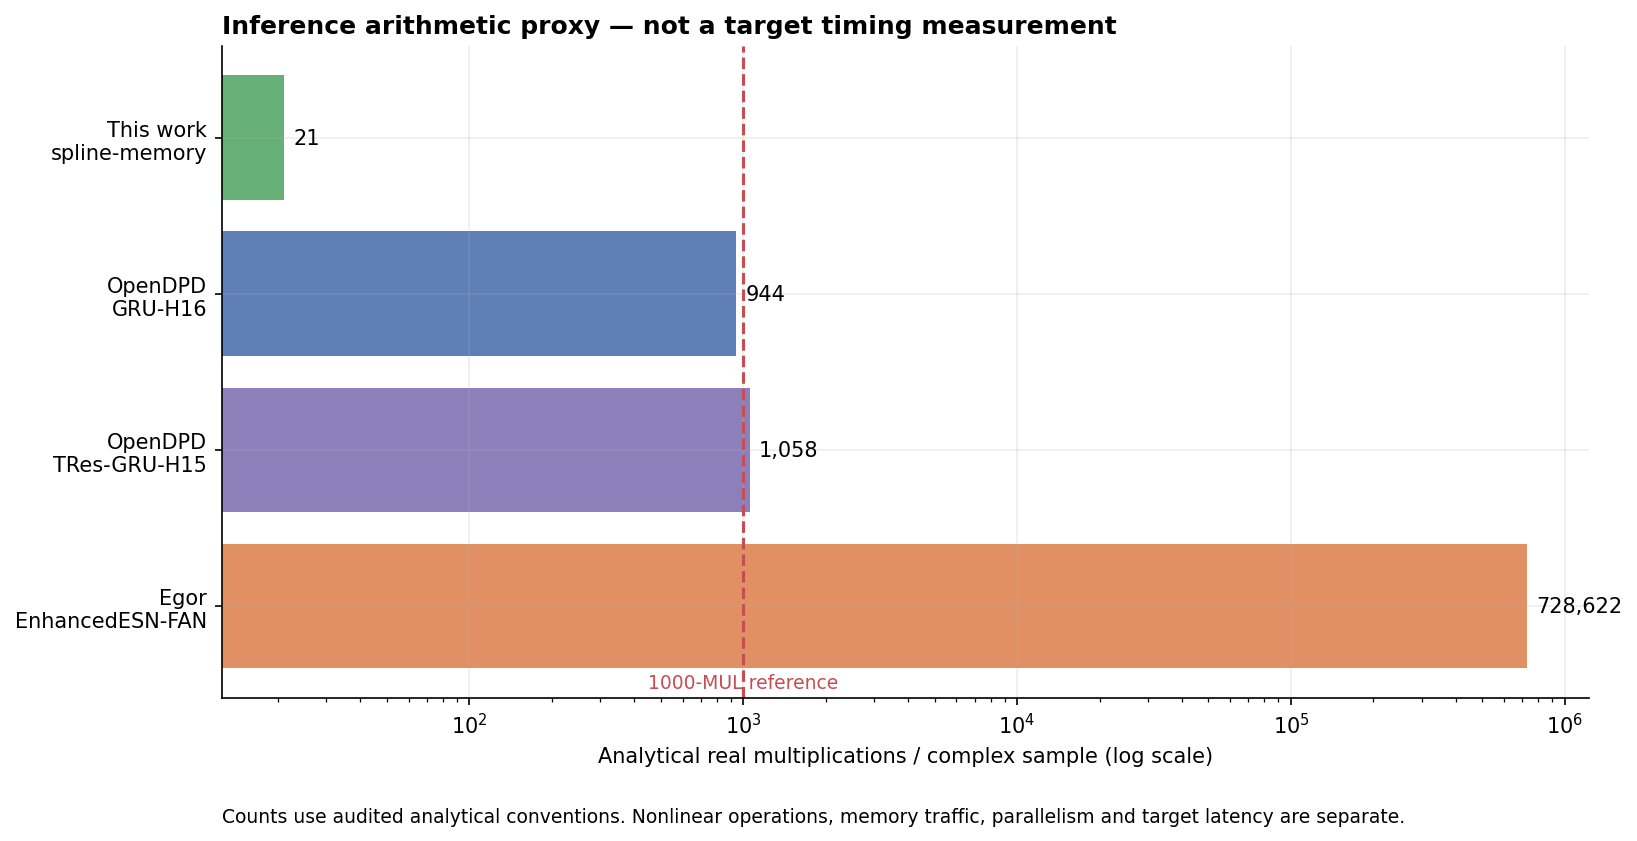
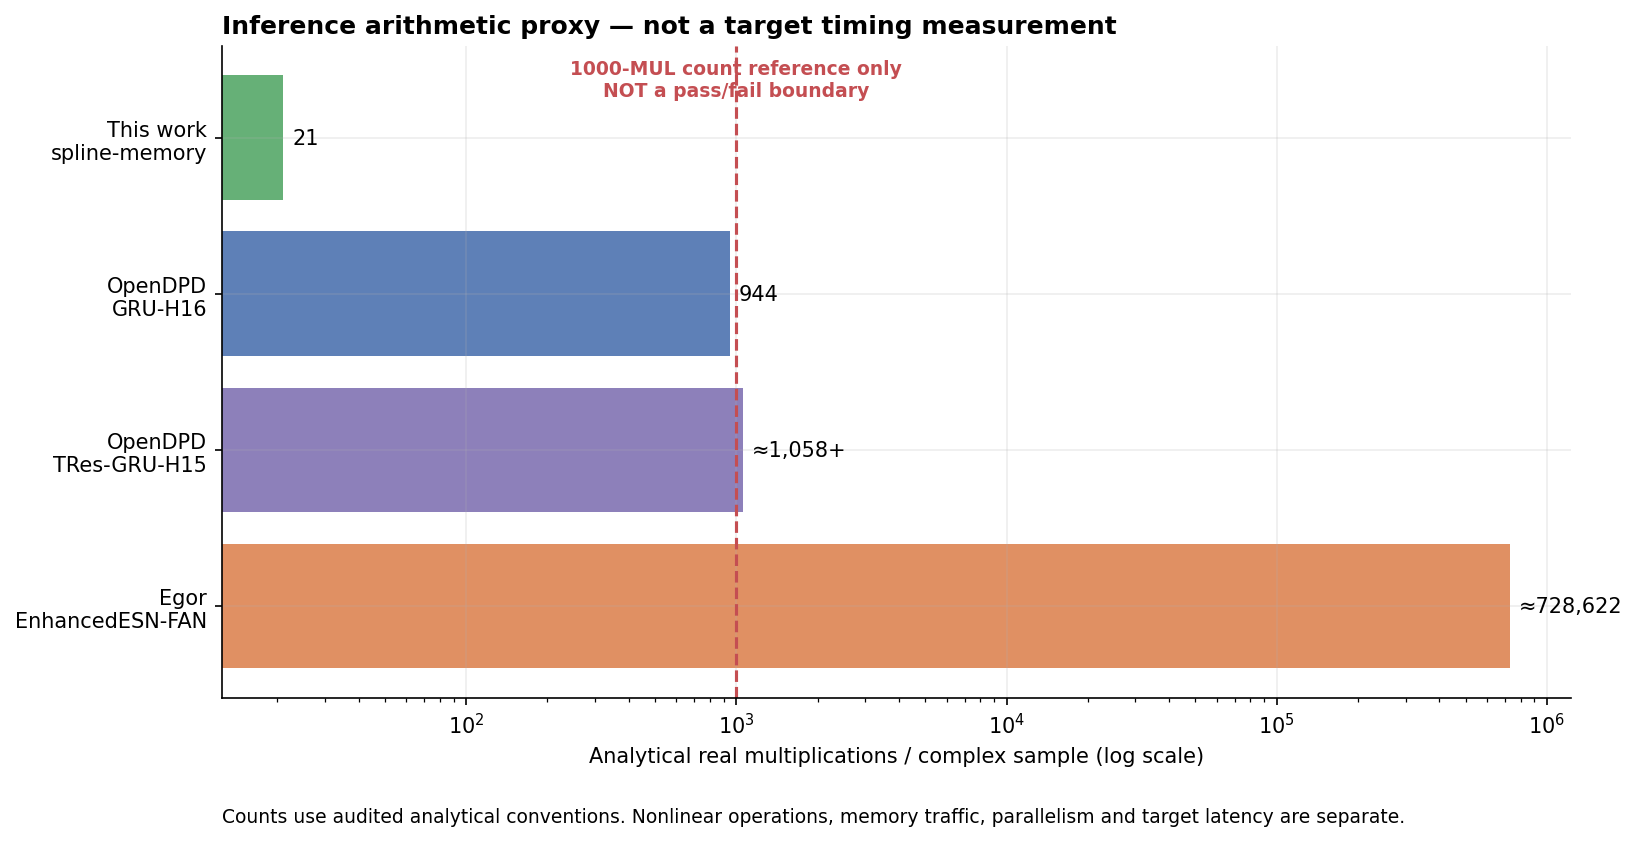
Clarify complexity timing boundary

diff --git a/experiments/generate_presentation_assets.py b/experiments/generate_presentation_assets.py
@@ -613,19 +613,30 @@ def render_complexity_proxy(output_path: Path) -> None:
         "Egor\nEnhancedESN-FAN",
     )
     values = np.asarray((21.0, 944.0, 1058.0, 728_622.0))
+    display_values = ("21", "944", "≈1,058+", "≈728,622")
     colors = (COLOR_FIXED, COLOR_FLOAT, COLOR_BAND, "#DD8452")
     figure, ax = plt.subplots(figsize=(10.8, 5.5), constrained_layout=True)
     positions = np.arange(values.size)
     bars = ax.barh(positions, values, color=colors, alpha=0.9)
     ax.set_xscale("log")
     ax.axvline(1000.0, color=COLOR_NO_DPD, linestyle="--", linewidth=1.5)
-    ax.text(1000.0, 3.55, "1000-MUL reference", color=COLOR_NO_DPD, ha="center", va="bottom", fontsize=9)
+    ax.text(
+        1000.0,
+        0.98,
+        "1000-MUL count reference only\nNOT a pass/fail boundary",
+        transform=ax.get_xaxis_transform(),
+        color=COLOR_NO_DPD,
+        ha="center",
+        va="top",
+        fontsize=9,
+        fontweight="bold",
+    )
     ax.set_yticks(positions, labels)
     ax.invert_yaxis()
     ax.set_xlabel("Analytical real multiplications / complex sample (log scale)")
     ax.set_title("Inference arithmetic proxy — not a target timing measurement", loc="left")
-    for bar, value in zip(bars, values, strict=True):
-        ax.text(value * 1.08, bar.get_y() + bar.get_height() / 2, f"{int(value):,}", va="center", fontsize=10)
+    for bar, value, display in zip(bars, values, display_values, strict=True):
+        ax.text(value * 1.08, bar.get_y() + bar.get_height() / 2, display, va="center", fontsize=10)
     ax.text(
         0.0,
         -0.19,
